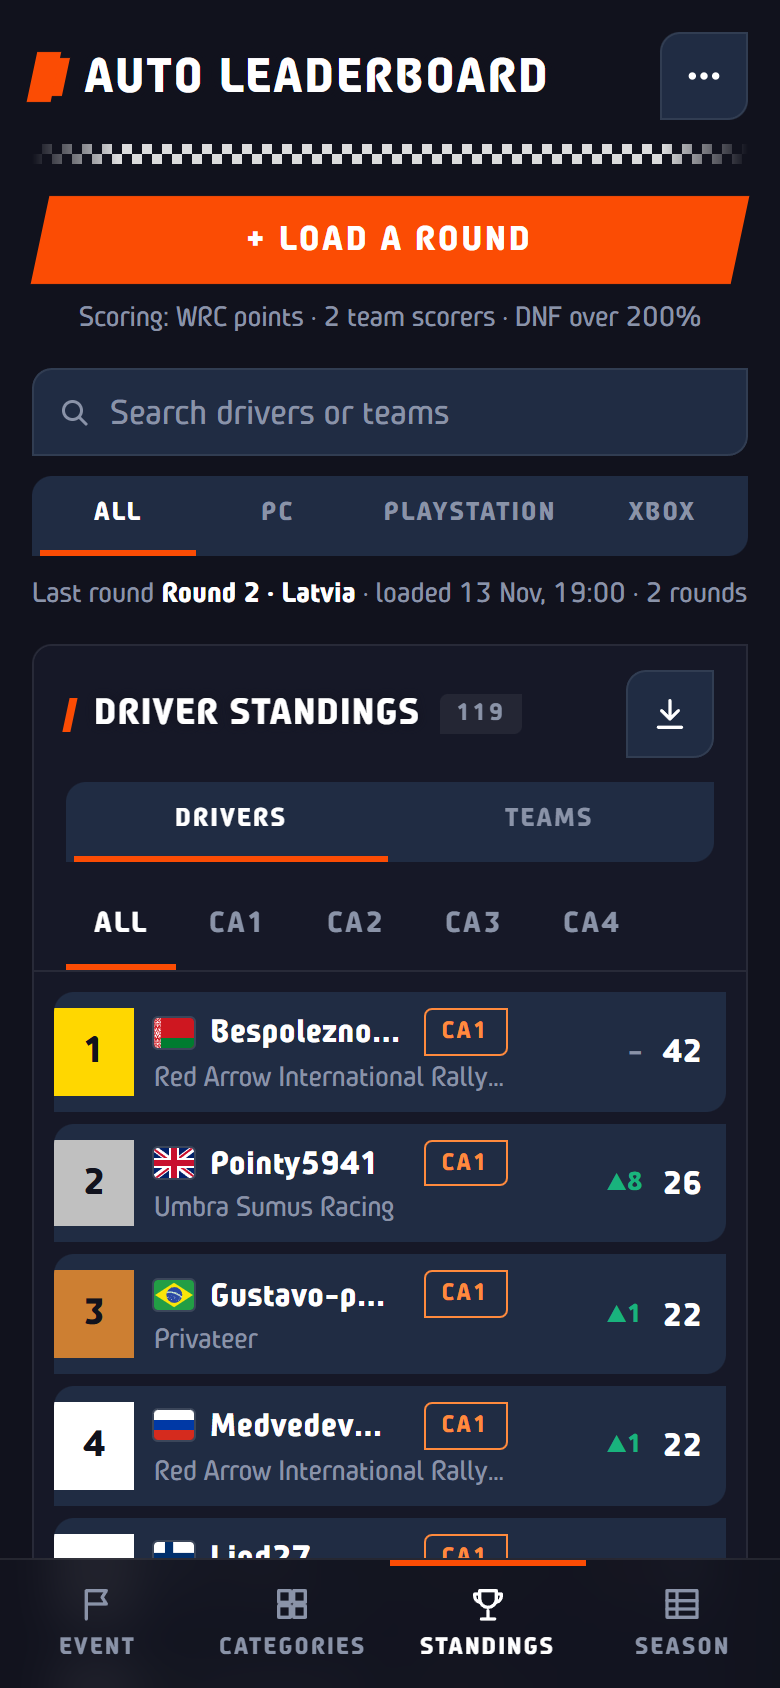
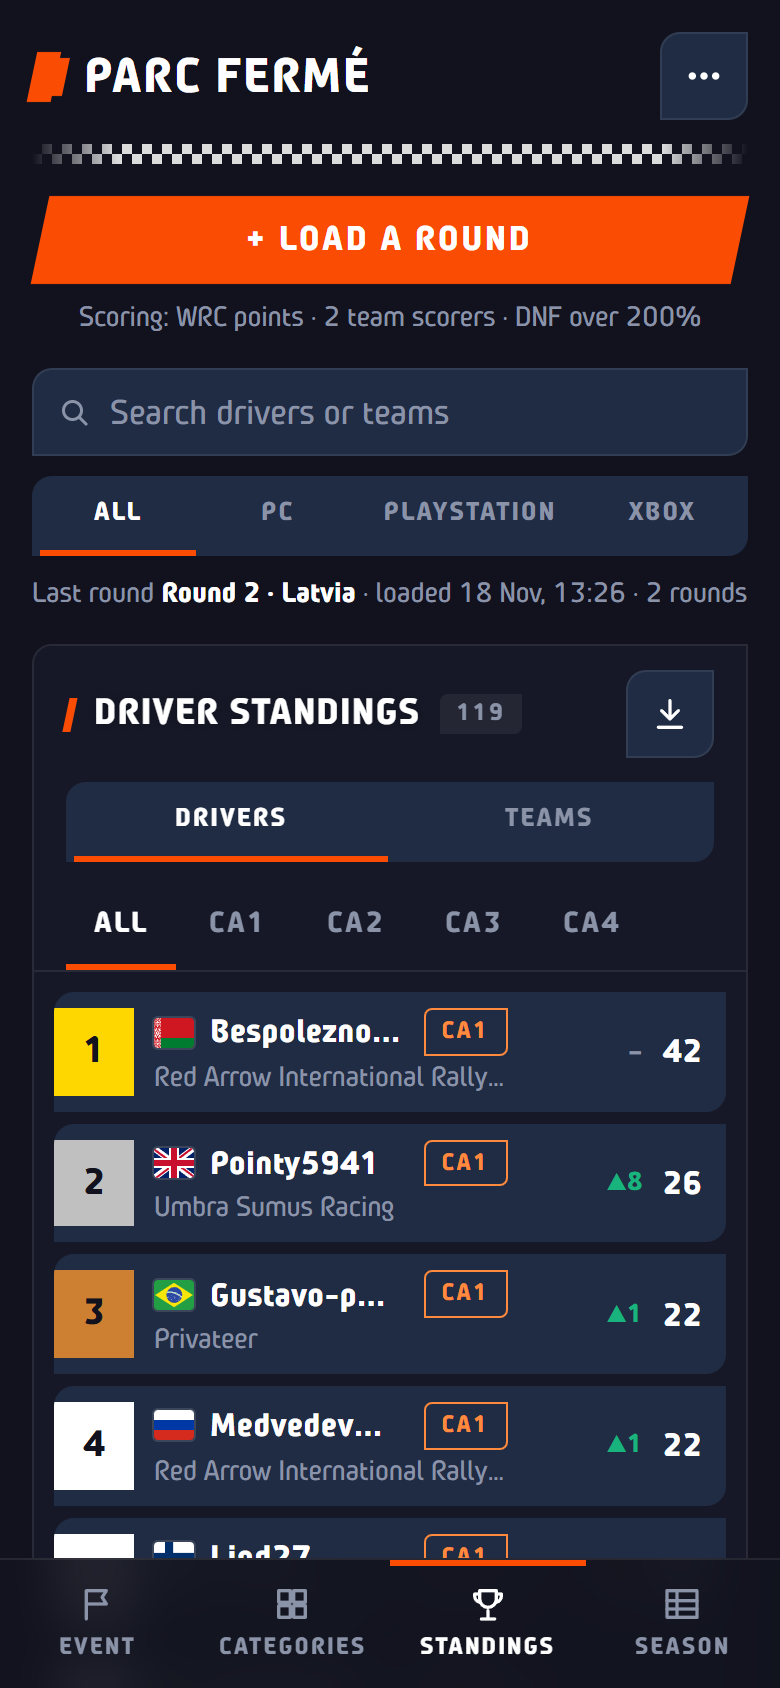
Rename the app to Parc Fermé

Changed region(s): [[0.0923, 0.0308, 0.7077, 0.0616], [0.7385, 0.3389, 0.8, 0.3697]]

diff --git a/index.html b/index.html
@@ -5,7 +5,7 @@
 		<meta name="viewport" content="width=device-width, initial-scale=1.0, viewport-fit=cover" />
 		<meta name="theme-color" content="#11121d" />
 		<meta name="description" content="Championship manager for sim rally leagues: upload results, score rounds and share the standings." />
-		<title>Auto Leaderboard</title>
+		<title>Parc Fermé</title>
 		<link rel="icon" href="/favicon.svg" type="image/svg+xml" />
 		<link rel="icon" href="/favicon.png" type="image/png" sizes="48x48" />
 		<link rel="apple-touch-icon" href="/apple-touch-icon.png" />
@@ -123,9 +123,9 @@
 		</style>
 	</head>
 	<body>
-		<div id="splash" role="status" aria-label="Loading Auto Leaderboard">
+		<div id="splash" role="status" aria-label="Loading Parc Fermé">
 			<div class="splash-inner" aria-hidden="true">
-				<p class="splash-title"><span class="splash-mark"></span>Auto Leaderboard</p>
+				<p class="splash-title"><span class="splash-mark"></span>Parc Fermé</p>
 				<div class="splash-lights">
 					<span class="splash-light" style="--n: 0"></span>
 					<span class="splash-light" style="--n: 1"></span>

diff --git a/src/lib/exporters.js b/src/lib/exporters.js
@@ -190,7 +190,7 @@ export async function renderStandingsImage({ title, subtitle, rows }) {
 	ctx.fillStyle = COLORS.muted;
 	ctx.font = `400 18px ${FONT}`;
 	ctx.fillText(
-		`Auto Leaderboard · ${new Date().toLocaleDateString(undefined, { day: 'numeric', month: 'short', year: 'numeric' })}`,
+		`Parc Fermé · ${new Date().toLocaleDateString(undefined, { day: 'numeric', month: 'short', year: 'numeric' })}`,
 		pad,
 		height - footerH / 2
 	);

diff --git a/src/components/Header.jsx b/src/components/Header.jsx
@@ -8,7 +8,7 @@ export default function Header({ onRemoveAllRounds, onDeleteAll }) {
 			<header className="site-header">
 				<h1 className="brand">
 					<span className="brand-mark" aria-hidden="true" />
-					Auto Leaderboard
+					Parc Fermé
 				</h1>
 				<Menu label="More actions" icon={<DotsIcon />}>
 					{(close) => (

diff --git a/README.md b/README.md
@@ -1,4 +1,4 @@
-# Auto Leaderboard
+# Parc Fermé
 
 **[Live demo → autoleaderboard.netlify.app](https://autoleaderboard.netlify.app/)**
 
